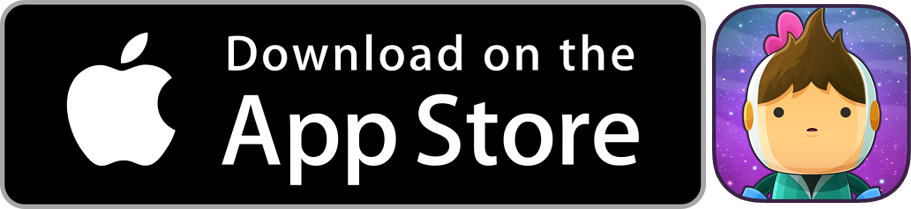
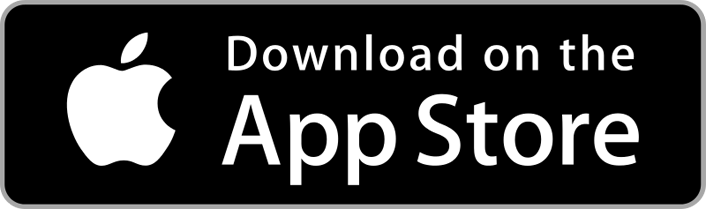
add play button

diff --git a/index.html b/index.html
@@ -92,8 +92,18 @@
 
 		<div id="content">
 			
-			<div id="stores">
-						<A href="https://itunes.apple.com/app/id941057494" target="_blank"><IMG src="img/app_store_button.png" width="100%"></A>
+			<div id = "prizes">
+
+				<div style=" width: 35%;float:left; margin-left:5%; margin-right:3%">
+							<A href="https://itunes.apple.com/app/id941057494" target="_blank"><IMG src="img/app_store_button.png" width="100%"></A>
+				</div>
+				<div style=" width: 10%; float:left; "">
+							<IMG src="img/stores_icon.png" width="100%">
+				</div>
+				<div style=" width: 35%; float:left; margin-left:3%; margin-right:5%">
+							<A href="https://play.google.com/store/apps/details?id=air.com.A3donkeys.loveBits" target="_blank"><IMG src="img/play_store_button.png" width="100%"></A>
+				</div>
+
 			</div>
 
 			<!-- TRAILER -->

diff --git a/style.css b/style.css
@@ -51,6 +51,7 @@ body
 
 #wrapperIframe
 {
+	margin-top: 8%; 
 	border-style: solid;
     border-color: white;
 }
